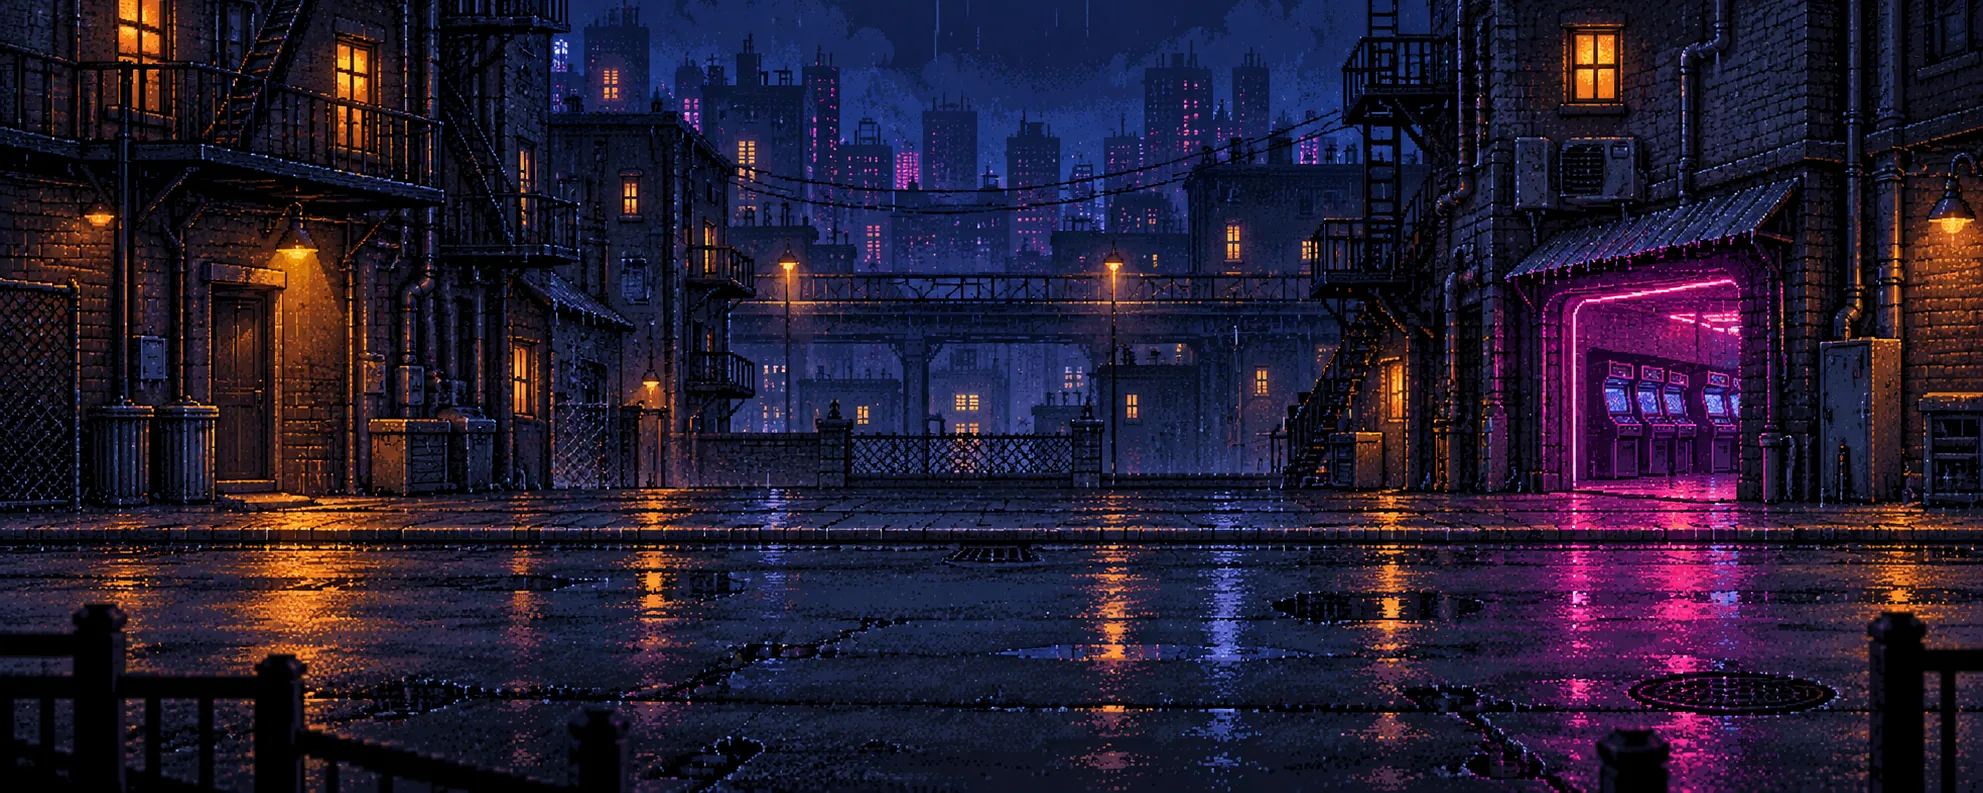
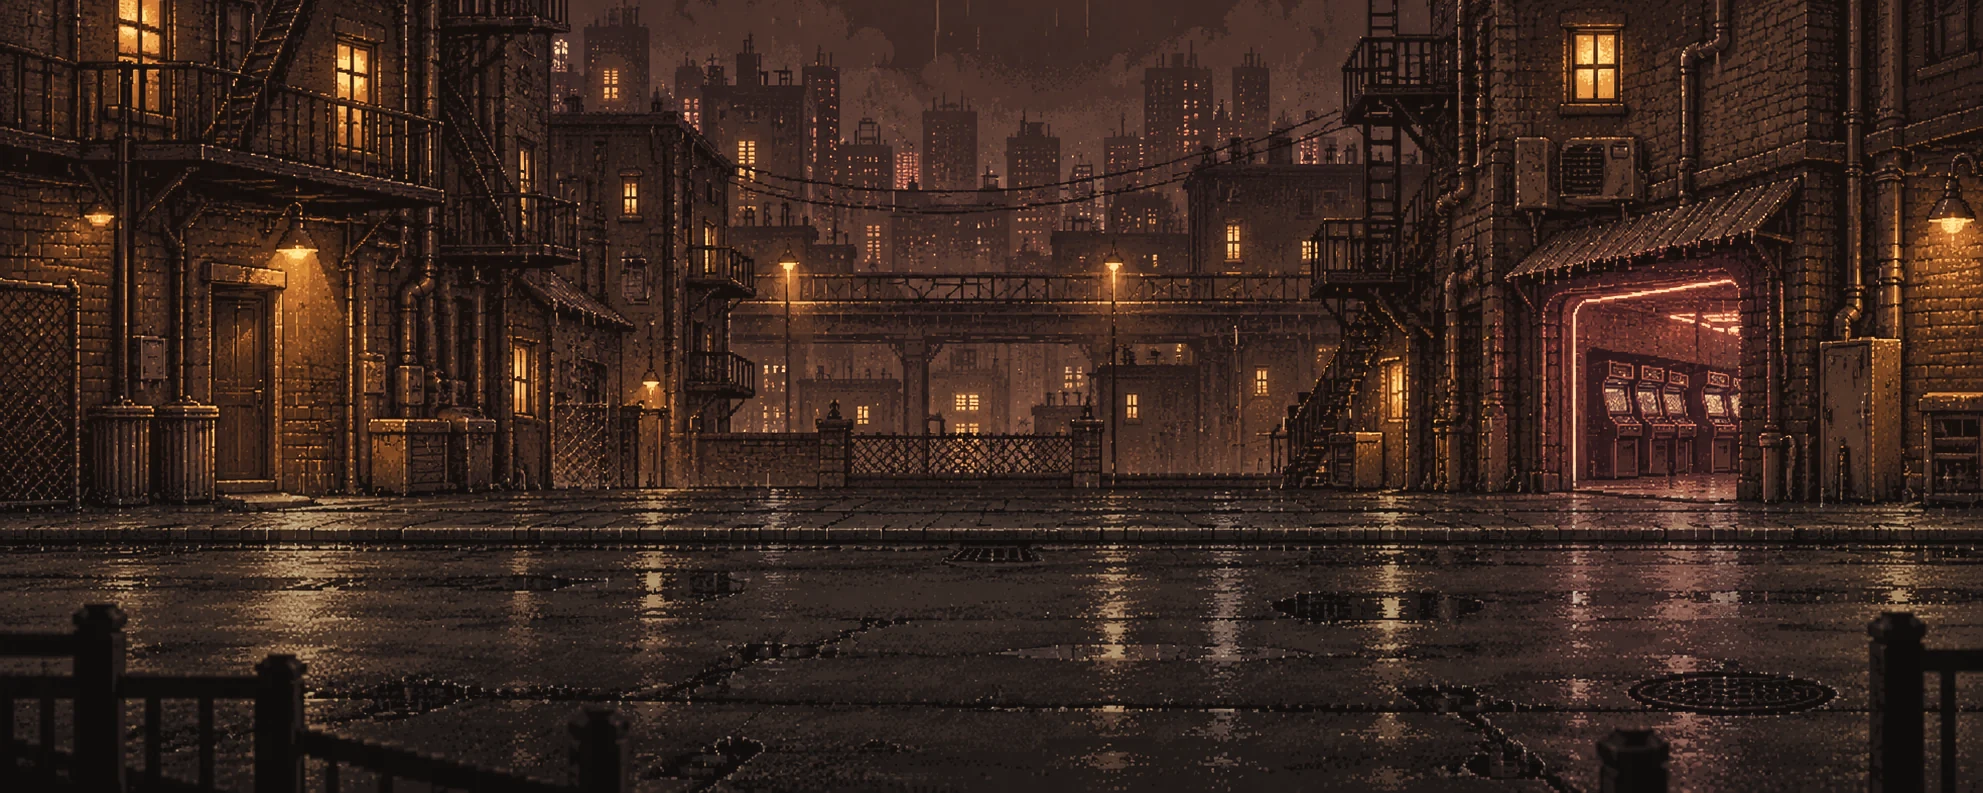
Grade stage backgrounds with the v2 warm palette.
Apply tools/warm_grade.py once to every assets/backgrounds webp, keeping filenames and pixel dimensions.

diff --git a/tools/warm_grade.py b/tools/warm_grade.py
@@ -1,0 +1,22 @@
+# tools/warm_grade.py  (python3, pip install pillow numpy)
+import glob,os,numpy as np
+from PIL import Image
+RAMP=[(0.00,'#1A1210'),(0.18,'#3A2418'),(0.40,'#74431F'),(0.62,'#B86E32'),(0.82,'#E8A552'),(1.00,'#FFE0A0')]
+hx=lambda h: np.array([int(h[i:i+2],16) for i in (1,3,5)],float)
+xs=np.array([p for p,_ in RAMP]); cs=np.stack([hx(c) for _,c in RAMP])
+gmap=lambda L: np.stack([np.interp(L,xs,cs[:,k]) for k in range(3)],-1)
+def grade(path,ground):
+    src=Image.open(path); a=np.asarray(src.convert('RGB'),float)
+    L=(0.299*a[...,0]+0.587*a[...,1]+0.114*a[...,2])/255
+    m=L.mean(); dark=m<0.22
+    Lw=np.clip(L**(0.78 if dark else 1.0)*(1.20 if dark else 1.0),0,1)
+    out=0.80*gmap(Lw)+0.20*np.clip(a*(1.15 if dark else 1.0),0,255)
+    y=np.arange(a.shape[0])[:,None]/a.shape[0]
+    gm=np.clip((y-ground)/0.06,0,1)[...,None]
+    lane=(0.55*out+0.45*out.mean(-1,keepdims=True))*0.82
+    out=out*(1-gm)+lane*gm
+    im=Image.fromarray(np.clip(out,0,255).astype(np.uint8))
+    if 'A' in src.mode: im.putalpha(src.getchannel('A'))
+    im.save(path,'WEBP',quality=88,method=6)
+for f in sorted(glob.glob('assets/backgrounds/*.webp')):
+    grade(f, 2 if os.path.basename(f)=='main-menu.webp' else 0.58)
